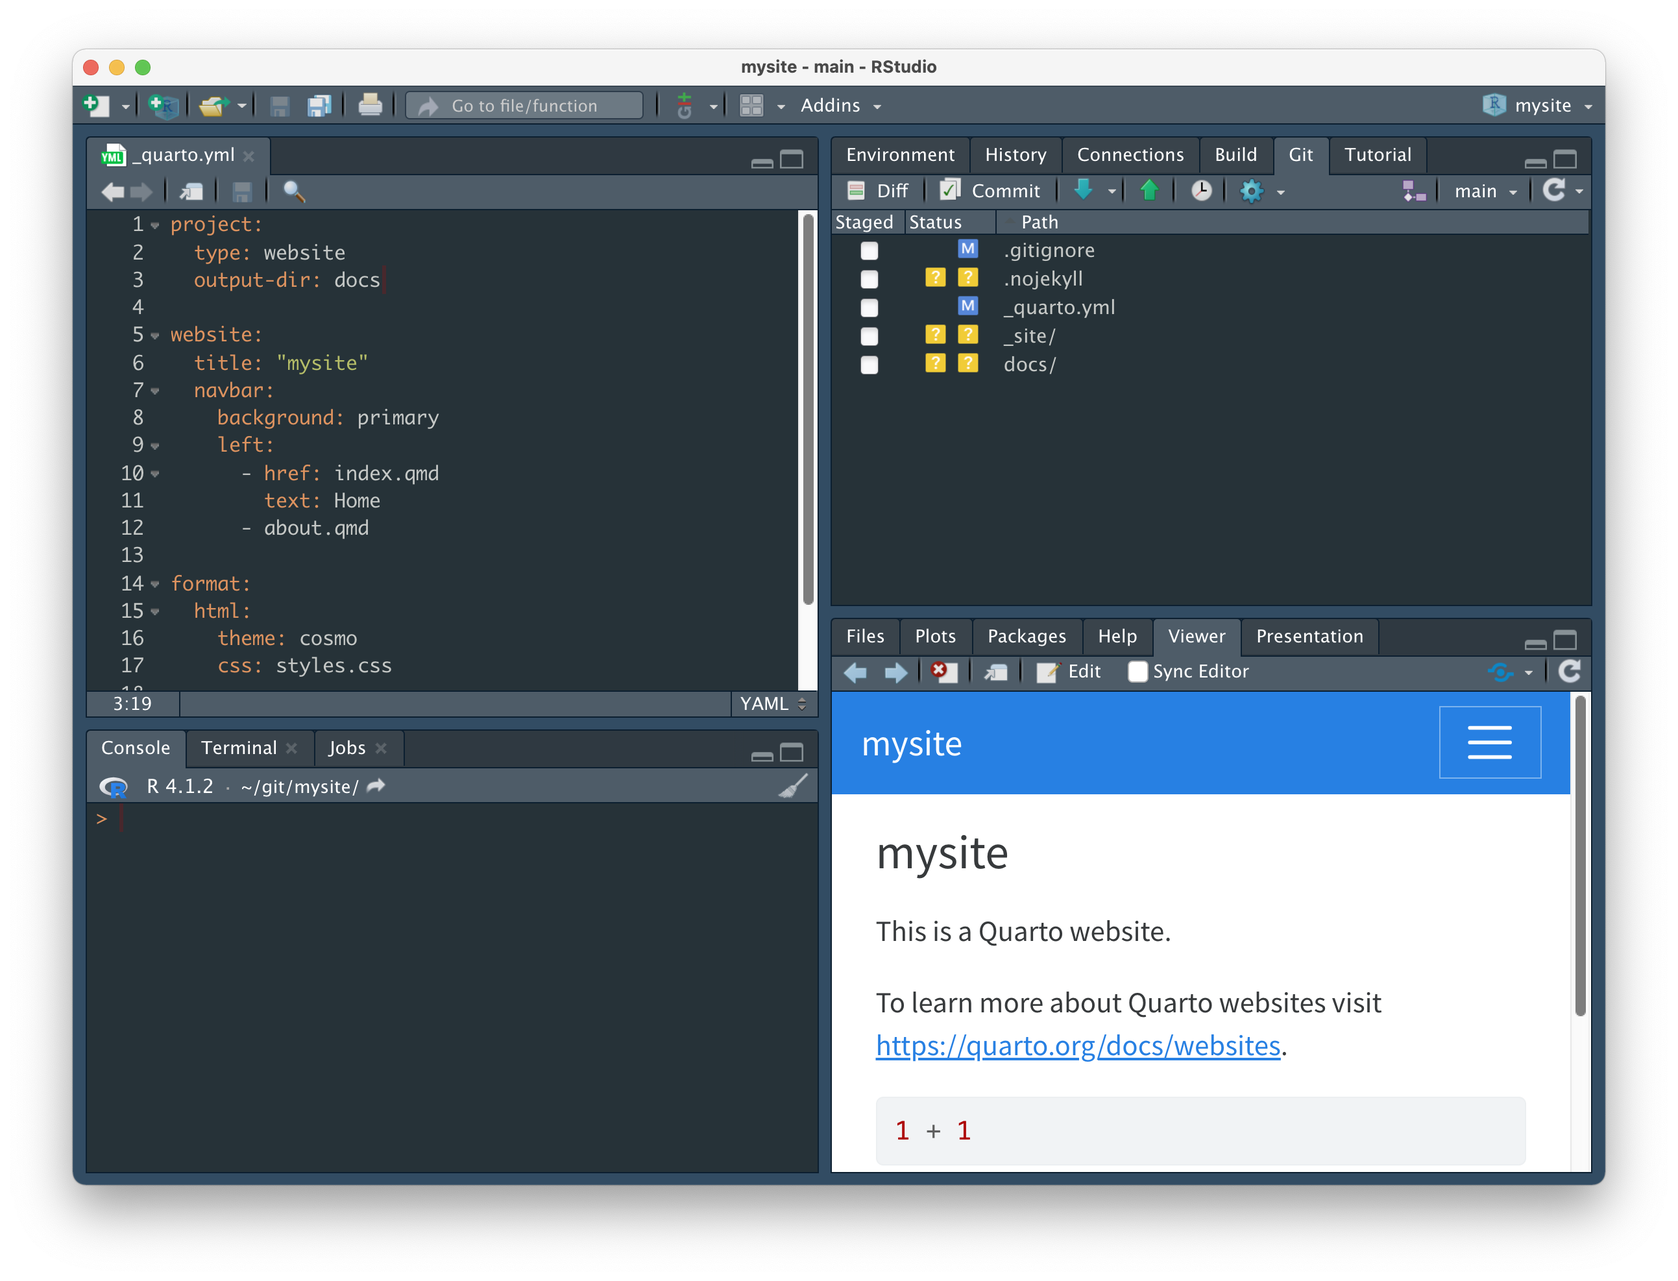
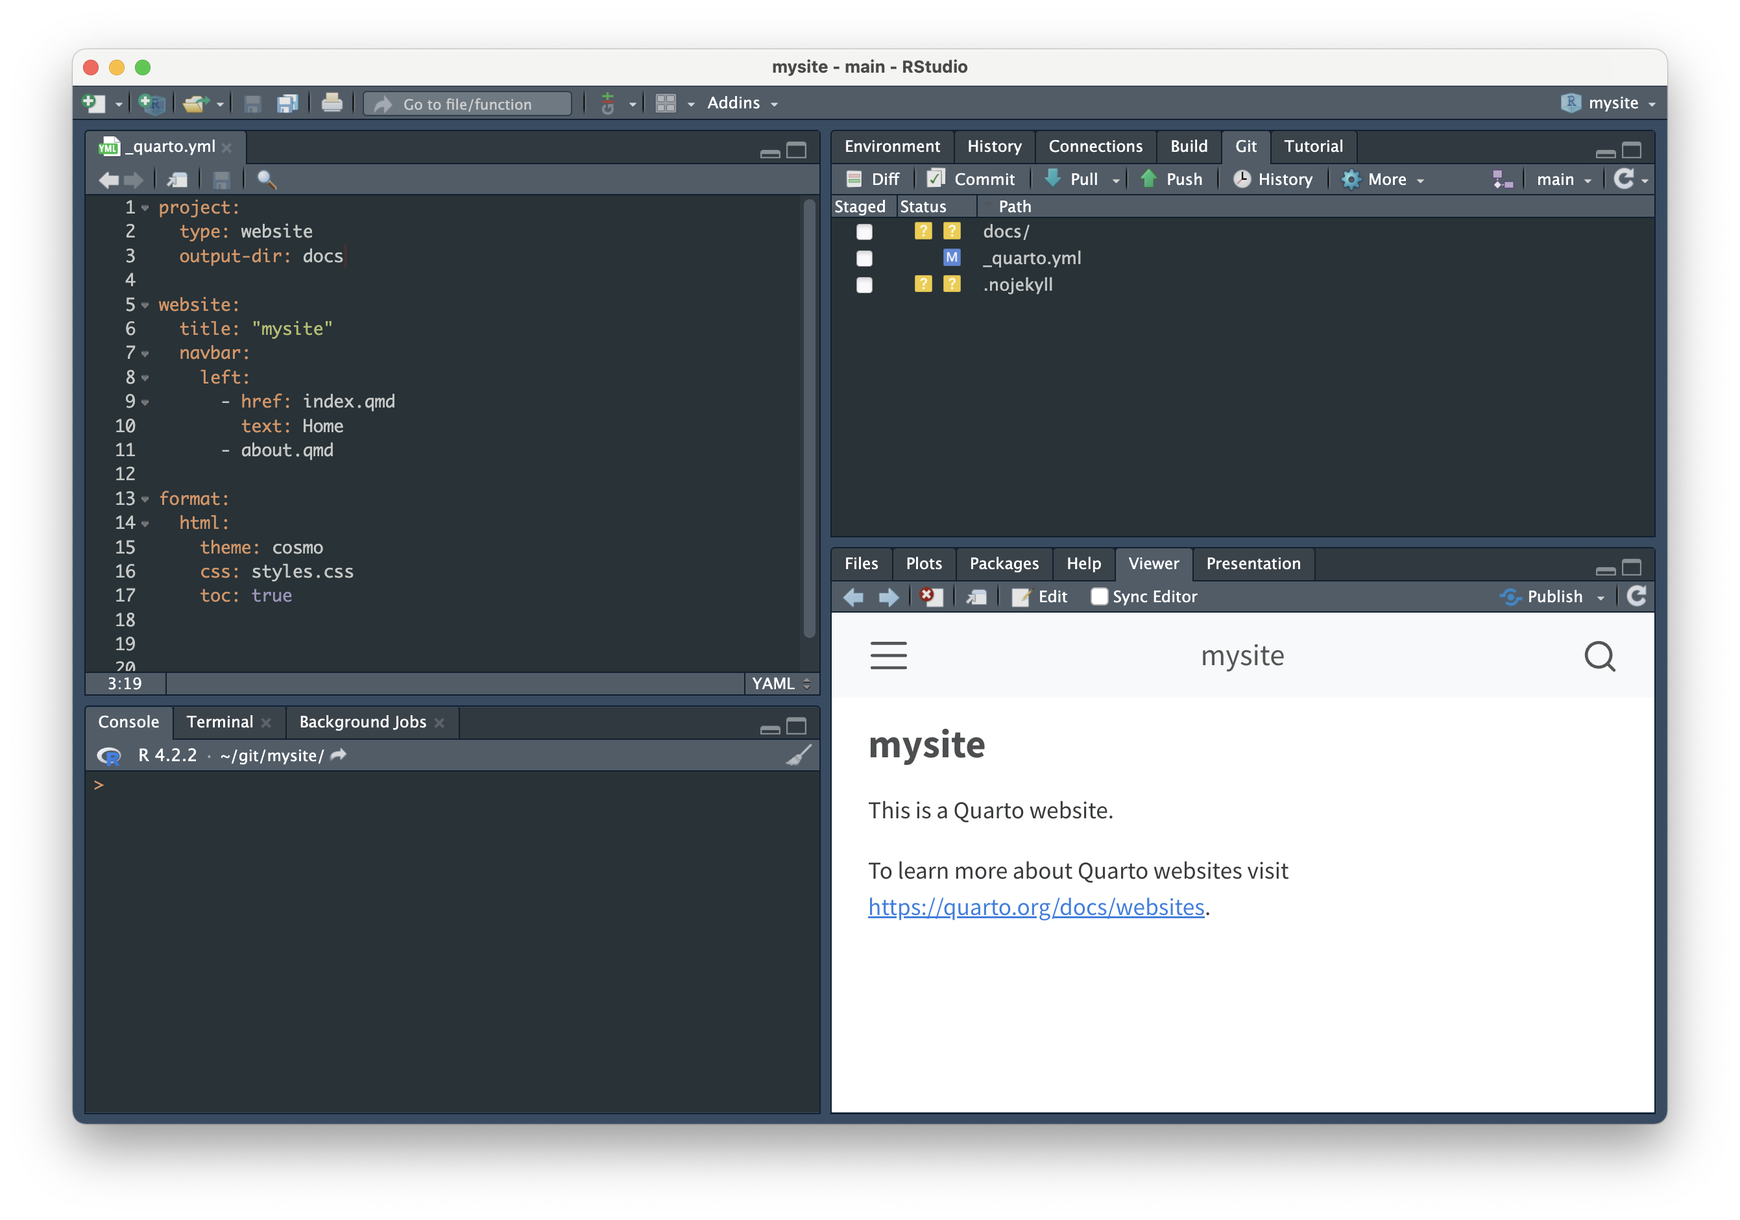
added hint about actions tab

Changed region(s): [[0.0309, 0.0309, 0.959, 0.9255]]

diff --git a/index.html b/index.html
@@ -84,7 +84,7 @@ pre > code.sourceCode > span > a:first-child::before { text-decoration: underlin
   <li><a href="#what-is" id="toc-what-is" class="nav-link active" data-scroll-target="#what-is">What is <img src="media/quarto.png" alt="A blue circle divided into four quadrants, followed by the name 'quarto'." style="display: inline-block; margin: 0; position: relative; top: 0px; width:110px;height:30px;"> ?</a></li>
   <li><a href="#do-i-need-to-use-quarto-to-build-my-website" id="toc-do-i-need-to-use-quarto-to-build-my-website" class="nav-link" data-scroll-target="#do-i-need-to-use-quarto-to-build-my-website"><svg aria-label="Question" role="img" viewbox="0 0 320 512" style="height:1em;width:0.62em;vertical-align:-0.125em;margin-left:auto;margin-right:auto;font-size:inherit;fill:#5A5A5A;overflow:visible;position:relative;"><title>Question</title><path d="M80 160c0-35.3 28.7-64 64-64h32c35.3 0 64 28.7 64 64v3.6c0 21.8-11.1 42.1-29.4 53.8l-42.2 27.1c-25.2 16.2-40.4 44.1-40.4 74V320c0 17.7 14.3 32 32 32s32-14.3 32-32v-1.4c0-8.2 4.2-15.8 11-20.2l42.2-27.1c36.6-23.6 58.8-64.1 58.8-107.7V160c0-70.7-57.3-128-128-128H144C73.3 32 16 89.3 16 160c0 17.7 14.3 32 32 32s32-14.3 32-32zm80 320a40 40 0 1 0 0-80 40 40 0 1 0 0 80z"></path></svg> Do I <em>need</em> to use Quarto to build my website?</a></li>
   <li><a href="#create-the-scaffolding-for-your-website" id="toc-create-the-scaffolding-for-your-website" class="nav-link" data-scroll-target="#create-the-scaffolding-for-your-website"><svg aria-label="Screwdriver Wrench" role="img" viewbox="0 0 512 512" style="height:1em;width:1em;vertical-align:-0.125em;margin-left:auto;margin-right:auto;font-size:inherit;fill:#5A5A5A;overflow:visible;position:relative;"><title>Screwdriver Wrench</title><path d="M78.6 5C69.1-2.4 55.6-1.5 47 7L7 47c-8.5 8.5-9.4 22-2.1 31.6l80 104c4.5 5.9 11.6 9.4 19 9.4h54.1l109 109c-14.7 29-10 65.4 14.3 89.6l112 112c12.5 12.5 32.8 12.5 45.3 0l64-64c12.5-12.5 12.5-32.8 0-45.3l-112-112c-24.2-24.2-60.6-29-89.6-14.3l-109-109V104c0-7.5-3.5-14.5-9.4-19L78.6 5zM19.9 396.1C7.2 408.8 0 426.1 0 444.1C0 481.6 30.4 512 67.9 512c18 0 35.3-7.2 48-19.9L233.7 374.3c-7.8-20.9-9-43.6-3.6-65.1l-61.7-61.7L19.9 396.1zM512 144c0-10.5-1.1-20.7-3.2-30.5c-2.4-11.2-16.1-14.1-24.2-6l-63.9 63.9c-3 3-7.1 4.7-11.3 4.7H352c-8.8 0-16-7.2-16-16V102.6c0-4.2 1.7-8.3 4.7-11.3l63.9-63.9c8.1-8.1 5.2-21.8-6-24.2C388.7 1.1 378.5 0 368 0C288.5 0 224 64.5 224 144l0 .8 85.3 85.3c36-9.1 75.8 .5 104 28.7L429 274.5c49-23 83-72.8 83-130.5zM56 432a24 24 0 1 1 48 0 24 24 0 1 1 -48 0z"></path></svg> Create the scaffolding for your website</a></li>
-  <li><a href="#publish-your-site-with-github-pages" id="toc-publish-your-site-with-github-pages" class="nav-link" data-scroll-target="#publish-your-site-with-github-pages"><svg aria-label="GitHub" role="img" viewbox="0 0 496 512" style="height:1em;width:0.97em;vertical-align:-0.125em;margin-left:auto;margin-right:auto;font-size:inherit;fill:#5A5A5A;overflow:visible;position:relative;"><title>GitHub</title><path d="M165.9 397.4c0 2-2.3 3.6-5.2 3.6-3.3.3-5.6-1.3-5.6-3.6 0-2 2.3-3.6 5.2-3.6 3-.3 5.6 1.3 5.6 3.6zm-31.1-4.5c-.7 2 1.3 4.3 4.3 4.9 2.6 1 5.6 0 6.2-2s-1.3-4.3-4.3-5.2c-2.6-.7-5.5.3-6.2 2.3zm44.2-1.7c-2.9.7-4.9 2.6-4.6 4.9.3 2 2.9 3.3 5.9 2.6 2.9-.7 4.9-2.6 4.6-4.6-.3-1.9-3-3.2-5.9-2.9zM244.8 8C106.1 8 0 113.3 0 252c0 110.9 69.8 205.8 169.5 239.2 12.8 2.3 17.3-5.6 17.3-12.1 0-6.2-.3-40.4-.3-61.4 0 0-70 15-84.7-29.8 0 0-11.4-29.1-27.8-36.6 0 0-22.9-15.7 1.6-15.4 0 0 24.9 2 38.6 25.8 21.9 38.6 58.6 27.5 72.9 20.9 2.3-16 8.8-27.1 16-33.7-55.9-6.2-112.3-14.3-112.3-110.5 0-27.5 7.6-41.3 23.6-58.9-2.6-6.5-11.1-33.3 2.6-67.9 20.9-6.5 69 27 69 27 20-5.6 41.5-8.5 62.8-8.5s42.8 2.9 62.8 8.5c0 0 48.1-33.6 69-27 13.7 34.7 5.2 61.4 2.6 67.9 16 17.7 25.8 31.5 25.8 58.9 0 96.5-58.9 104.2-114.8 110.5 9.2 7.9 17 22.9 17 46.4 0 33.7-.3 75.4-.3 83.6 0 6.5 4.6 14.4 17.3 12.1C428.2 457.8 496 362.9 496 252 496 113.3 383.5 8 244.8 8zM97.2 352.9c-1.3 1-1 3.3.7 5.2 1.6 1.6 3.9 2.3 5.2 1 1.3-1 1-3.3-.7-5.2-1.6-1.6-3.9-2.3-5.2-1zm-10.8-8.1c-.7 1.3.3 2.9 2.3 3.9 1.6 1 3.6.7 4.3-.7.7-1.3-.3-2.9-2.3-3.9-2-.6-3.6-.3-4.3.7zm32.4 35.6c-1.6 1.3-1 4.3 1.3 6.2 2.3 2.3 5.2 2.6 6.5 1 1.3-1.3.7-4.3-1.3-6.2-2.2-2.3-5.2-2.6-6.5-1zm-11.4-14.7c-1.6 1-1.6 3.6 0 5.9 1.6 2.3 4.3 3.3 5.6 2.3 1.6-1.3 1.6-3.9 0-6.2-1.4-2.3-4-3.3-5.6-2z"></path></svg> Publish your site with GitHub Pages</a></li>
+  <li><a href="#build-publish-your-site-with-github-pages" id="toc-build-publish-your-site-with-github-pages" class="nav-link" data-scroll-target="#build-publish-your-site-with-github-pages"><svg aria-label="GitHub" role="img" viewbox="0 0 496 512" style="height:1em;width:0.97em;vertical-align:-0.125em;margin-left:auto;margin-right:auto;font-size:inherit;fill:#5A5A5A;overflow:visible;position:relative;"><title>GitHub</title><path d="M165.9 397.4c0 2-2.3 3.6-5.2 3.6-3.3.3-5.6-1.3-5.6-3.6 0-2 2.3-3.6 5.2-3.6 3-.3 5.6 1.3 5.6 3.6zm-31.1-4.5c-.7 2 1.3 4.3 4.3 4.9 2.6 1 5.6 0 6.2-2s-1.3-4.3-4.3-5.2c-2.6-.7-5.5.3-6.2 2.3zm44.2-1.7c-2.9.7-4.9 2.6-4.6 4.9.3 2 2.9 3.3 5.9 2.6 2.9-.7 4.9-2.6 4.6-4.6-.3-1.9-3-3.2-5.9-2.9zM244.8 8C106.1 8 0 113.3 0 252c0 110.9 69.8 205.8 169.5 239.2 12.8 2.3 17.3-5.6 17.3-12.1 0-6.2-.3-40.4-.3-61.4 0 0-70 15-84.7-29.8 0 0-11.4-29.1-27.8-36.6 0 0-22.9-15.7 1.6-15.4 0 0 24.9 2 38.6 25.8 21.9 38.6 58.6 27.5 72.9 20.9 2.3-16 8.8-27.1 16-33.7-55.9-6.2-112.3-14.3-112.3-110.5 0-27.5 7.6-41.3 23.6-58.9-2.6-6.5-11.1-33.3 2.6-67.9 20.9-6.5 69 27 69 27 20-5.6 41.5-8.5 62.8-8.5s42.8 2.9 62.8 8.5c0 0 48.1-33.6 69-27 13.7 34.7 5.2 61.4 2.6 67.9 16 17.7 25.8 31.5 25.8 58.9 0 96.5-58.9 104.2-114.8 110.5 9.2 7.9 17 22.9 17 46.4 0 33.7-.3 75.4-.3 83.6 0 6.5 4.6 14.4 17.3 12.1C428.2 457.8 496 362.9 496 252 496 113.3 383.5 8 244.8 8zM97.2 352.9c-1.3 1-1 3.3.7 5.2 1.6 1.6 3.9 2.3 5.2 1 1.3-1 1-3.3-.7-5.2-1.6-1.6-3.9-2.3-5.2-1zm-10.8-8.1c-.7 1.3.3 2.9 2.3 3.9 1.6 1 3.6.7 4.3-.7.7-1.3-.3-2.9-2.3-3.9-2-.6-3.6-.3-4.3.7zm32.4 35.6c-1.6 1.3-1 4.3 1.3 6.2 2.3 2.3 5.2 2.6 6.5 1 1.3-1.3.7-4.3-1.3-6.2-2.2-2.3-5.2-2.6-6.5-1zm-11.4-14.7c-1.6 1-1.6 3.6 0 5.9 1.6 2.3 4.3 3.3 5.6 2.3 1.6-1.3 1.6-3.9 0-6.2-1.4-2.3-4-3.3-5.6-2z"></path></svg> Build &amp; publish your site with GitHub Pages</a></li>
   <li><a href="#where-you-should-start-changing-stuff" id="toc-where-you-should-start-changing-stuff" class="nav-link" data-scroll-target="#where-you-should-start-changing-stuff"><svg aria-label="Pen To Square" role="img" viewbox="0 0 512 512" style="height:1em;width:1em;vertical-align:-0.125em;margin-left:auto;margin-right:auto;font-size:inherit;fill:#5A5A5A;overflow:visible;position:relative;"><title>Pen To Square</title><path d="M441 58.9L453.1 71c9.4 9.4 9.4 24.6 0 33.9L424 134.1 377.9 88 407 58.9c9.4-9.4 24.6-9.4 33.9 0zM209.8 256.2L344 121.9 390.1 168 255.8 302.2c-2.9 2.9-6.5 5-10.4 6.1l-58.5 16.7 16.7-58.5c1.1-3.9 3.2-7.5 6.1-10.4zM373.1 25L175.8 222.2c-8.7 8.7-15 19.4-18.3 31.1l-28.6 100c-2.4 8.4-.1 17.4 6.1 23.6s15.2 8.5 23.6 6.1l100-28.6c11.8-3.4 22.5-9.7 31.1-18.3L487 138.9c28.1-28.1 28.1-73.7 0-101.8L474.9 25C446.8-3.1 401.2-3.1 373.1 25zM88 64C39.4 64 0 103.4 0 152V424c0 48.6 39.4 88 88 88H360c48.6 0 88-39.4 88-88V312c0-13.3-10.7-24-24-24s-24 10.7-24 24V424c0 22.1-17.9 40-40 40H88c-22.1 0-40-17.9-40-40V152c0-22.1 17.9-40 40-40H200c13.3 0 24-10.7 24-24s-10.7-24-24-24H88z"></path></svg> Where you should start changing stuff</a></li>
   <li><a href="#looking-forward" id="toc-looking-forward" class="nav-link" data-scroll-target="#looking-forward"><svg aria-label="Forward" role="img" viewbox="0 0 512 512" style="height:1em;width:1em;vertical-align:-0.125em;margin-left:auto;margin-right:auto;font-size:inherit;fill:#5A5A5A;overflow:visible;position:relative;"><title>Forward</title><path d="M52.5 440.6c-9.5 7.9-22.8 9.7-34.1 4.4S0 428.4 0 416V96C0 83.6 7.2 72.3 18.4 67s24.5-3.6 34.1 4.4L224 214.3V256v41.7L52.5 440.6zM256 352V256 128 96c0-12.4 7.2-23.7 18.4-29s24.5-3.6 34.1 4.4l192 160c7.3 6.1 11.5 15.1 11.5 24.6s-4.2 18.5-11.5 24.6l-192 160c-9.5 7.9-22.8 9.7-34.1 4.4s-18.4-16.6-18.4-29V352z"></path></svg> Looking forward</a></li>
   <li><a href="#additional-resources-to-get-you-stoked-about-quarto" id="toc-additional-resources-to-get-you-stoked-about-quarto" class="nav-link" data-scroll-target="#additional-resources-to-get-you-stoked-about-quarto"><svg aria-label="Star" role="img" viewbox="0 0 576 512" style="height:1em;width:1.12em;vertical-align:-0.125em;margin-left:auto;margin-right:auto;font-size:inherit;fill:#5A5A5A;overflow:visible;position:relative;"><title>Star</title><path d="M287.9 0c9.2 0 17.6 5.2 21.6 13.5l68.6 141.3 153.2 22.6c9 1.3 16.5 7.6 19.3 16.3s.5 18.1-5.9 24.5L433.6 328.4l26.2 155.6c1.5 9-2.2 18.1-9.6 23.5s-17.3 6-25.3 1.7l-137-73.2L151 509.1c-8.1 4.3-17.9 3.7-25.3-1.7s-11.2-14.5-9.7-23.5l26.2-155.6L31.1 218.2c-6.5-6.4-8.7-15.9-5.9-24.5s10.3-14.9 19.3-16.3l153.2-22.6L266.3 13.5C270.4 5.2 278.7 0 287.9 0zm0 79L235.4 187.2c-3.5 7.1-10.2 12.1-18.1 13.3L99 217.9 184.9 303c5.5 5.5 8.1 13.3 6.8 21L171.4 443.7l105.2-56.2c7.1-3.8 15.6-3.8 22.6 0l105.2 56.2L384.2 324.1c-1.3-7.7 1.2-15.5 6.8-21l85.9-85.1L358.6 200.5c-7.8-1.2-14.6-6.1-18.1-13.3L287.9 79z"></path></svg> Additional resources to get you stoked about Quarto</a></li>
@@ -656,8 +656,8 @@ Create a Quarto website inside an existing GitHub repository
 </div>
 </div>
 </section>
-<section id="publish-your-site-with-github-pages" class="level2 page-columns page-full">
-<h2 class="anchored" data-anchor-id="publish-your-site-with-github-pages"><svg aria-label="GitHub" role="img" viewbox="0 0 496 512" style="height:1em;width:0.97em;vertical-align:-0.125em;margin-left:auto;margin-right:auto;font-size:inherit;fill:#5A5A5A;overflow:visible;position:relative;"><title>GitHub</title><path d="M165.9 397.4c0 2-2.3 3.6-5.2 3.6-3.3.3-5.6-1.3-5.6-3.6 0-2 2.3-3.6 5.2-3.6 3-.3 5.6 1.3 5.6 3.6zm-31.1-4.5c-.7 2 1.3 4.3 4.3 4.9 2.6 1 5.6 0 6.2-2s-1.3-4.3-4.3-5.2c-2.6-.7-5.5.3-6.2 2.3zm44.2-1.7c-2.9.7-4.9 2.6-4.6 4.9.3 2 2.9 3.3 5.9 2.6 2.9-.7 4.9-2.6 4.6-4.6-.3-1.9-3-3.2-5.9-2.9zM244.8 8C106.1 8 0 113.3 0 252c0 110.9 69.8 205.8 169.5 239.2 12.8 2.3 17.3-5.6 17.3-12.1 0-6.2-.3-40.4-.3-61.4 0 0-70 15-84.7-29.8 0 0-11.4-29.1-27.8-36.6 0 0-22.9-15.7 1.6-15.4 0 0 24.9 2 38.6 25.8 21.9 38.6 58.6 27.5 72.9 20.9 2.3-16 8.8-27.1 16-33.7-55.9-6.2-112.3-14.3-112.3-110.5 0-27.5 7.6-41.3 23.6-58.9-2.6-6.5-11.1-33.3 2.6-67.9 20.9-6.5 69 27 69 27 20-5.6 41.5-8.5 62.8-8.5s42.8 2.9 62.8 8.5c0 0 48.1-33.6 69-27 13.7 34.7 5.2 61.4 2.6 67.9 16 17.7 25.8 31.5 25.8 58.9 0 96.5-58.9 104.2-114.8 110.5 9.2 7.9 17 22.9 17 46.4 0 33.7-.3 75.4-.3 83.6 0 6.5 4.6 14.4 17.3 12.1C428.2 457.8 496 362.9 496 252 496 113.3 383.5 8 244.8 8zM97.2 352.9c-1.3 1-1 3.3.7 5.2 1.6 1.6 3.9 2.3 5.2 1 1.3-1 1-3.3-.7-5.2-1.6-1.6-3.9-2.3-5.2-1zm-10.8-8.1c-.7 1.3.3 2.9 2.3 3.9 1.6 1 3.6.7 4.3-.7.7-1.3-.3-2.9-2.3-3.9-2-.6-3.6-.3-4.3.7zm32.4 35.6c-1.6 1.3-1 4.3 1.3 6.2 2.3 2.3 5.2 2.6 6.5 1 1.3-1.3.7-4.3-1.3-6.2-2.2-2.3-5.2-2.6-6.5-1zm-11.4-14.7c-1.6 1-1.6 3.6 0 5.9 1.6 2.3 4.3 3.3 5.6 2.3 1.6-1.3 1.6-3.9 0-6.2-1.4-2.3-4-3.3-5.6-2z"></path></svg> Publish your site with GitHub Pages</h2>
+<section id="build-publish-your-site-with-github-pages" class="level2 page-columns page-full">
+<h2 class="anchored" data-anchor-id="build-publish-your-site-with-github-pages"><svg aria-label="GitHub" role="img" viewbox="0 0 496 512" style="height:1em;width:0.97em;vertical-align:-0.125em;margin-left:auto;margin-right:auto;font-size:inherit;fill:#5A5A5A;overflow:visible;position:relative;"><title>GitHub</title><path d="M165.9 397.4c0 2-2.3 3.6-5.2 3.6-3.3.3-5.6-1.3-5.6-3.6 0-2 2.3-3.6 5.2-3.6 3-.3 5.6 1.3 5.6 3.6zm-31.1-4.5c-.7 2 1.3 4.3 4.3 4.9 2.6 1 5.6 0 6.2-2s-1.3-4.3-4.3-5.2c-2.6-.7-5.5.3-6.2 2.3zm44.2-1.7c-2.9.7-4.9 2.6-4.6 4.9.3 2 2.9 3.3 5.9 2.6 2.9-.7 4.9-2.6 4.6-4.6-.3-1.9-3-3.2-5.9-2.9zM244.8 8C106.1 8 0 113.3 0 252c0 110.9 69.8 205.8 169.5 239.2 12.8 2.3 17.3-5.6 17.3-12.1 0-6.2-.3-40.4-.3-61.4 0 0-70 15-84.7-29.8 0 0-11.4-29.1-27.8-36.6 0 0-22.9-15.7 1.6-15.4 0 0 24.9 2 38.6 25.8 21.9 38.6 58.6 27.5 72.9 20.9 2.3-16 8.8-27.1 16-33.7-55.9-6.2-112.3-14.3-112.3-110.5 0-27.5 7.6-41.3 23.6-58.9-2.6-6.5-11.1-33.3 2.6-67.9 20.9-6.5 69 27 69 27 20-5.6 41.5-8.5 62.8-8.5s42.8 2.9 62.8 8.5c0 0 48.1-33.6 69-27 13.7 34.7 5.2 61.4 2.6 67.9 16 17.7 25.8 31.5 25.8 58.9 0 96.5-58.9 104.2-114.8 110.5 9.2 7.9 17 22.9 17 46.4 0 33.7-.3 75.4-.3 83.6 0 6.5 4.6 14.4 17.3 12.1C428.2 457.8 496 362.9 496 252 496 113.3 383.5 8 244.8 8zM97.2 352.9c-1.3 1-1 3.3.7 5.2 1.6 1.6 3.9 2.3 5.2 1 1.3-1 1-3.3-.7-5.2-1.6-1.6-3.9-2.3-5.2-1zm-10.8-8.1c-.7 1.3.3 2.9 2.3 3.9 1.6 1 3.6.7 4.3-.7.7-1.3-.3-2.9-2.3-3.9-2-.6-3.6-.3-4.3.7zm32.4 35.6c-1.6 1.3-1 4.3 1.3 6.2 2.3 2.3 5.2 2.6 6.5 1 1.3-1.3.7-4.3-1.3-6.2-2.2-2.3-5.2-2.6-6.5-1zm-11.4-14.7c-1.6 1-1.6 3.6 0 5.9 1.6 2.3 4.3 3.3 5.6 2.3 1.6-1.3 1.6-3.9 0-6.2-1.4-2.3-4-3.3-5.6-2z"></path></svg> Build &amp; publish your site with GitHub Pages</h2>
 <p>There are a <a href="https://quarto.org/docs/websites/publishing-websites.html">lots of options to publish your website</a>. We’ll use the <a href="https://quarto.org/docs/websites/publishing-websites.html#github-pages">GitHub Pages option</a>, which allows you to publish a website from any GitHub repository. To do so, there are a few configuration steps:</p>
 <ol type="1">
 <li>Create a file named <code>.nojekyll</code> in your repository, which is required to disable some processing of HTML files that GitHub does by default. Do this from your <strong>terminal</strong> (you can use the terminal tab in RStudio or a separate terminal window – just make sure you’re in the correct directory) using the following command:</li>
@@ -707,7 +707,7 @@ Note
 <div class="cell-output-display">
 <div class="quarto-figure quarto-figure-center">
 <figure class="figure">
-<p><img src="media/build_site.png" class="img-fluid figure-img" width="1293"></p>
+<p><img src="media/build_site.png" class="img-fluid figure-img" width="1341"></p>
 </figure>
 </div>
 </div>
@@ -719,14 +719,14 @@ Note
 <li><strong>Commit</strong> your files by clicking the Commit button, adding a commit message, and clicking “Commit” (<em>analogous to <code>git commit -m "my commit message"</code></em>)</li>
 <li><strong>Push</strong> your files to the remote repository (on GitHub) by clicking the “Push” button with the green upward facing arrow (<em>analogous to <code>git push</code></em>).</li>
 </ol></li>
-<li><p>Configure GitHub pages to serve content from the “docs” directory by clicking on the <strong>Settings</strong> tab in the top menu bar, then <strong>Pages</strong> tab from the left hand menu bar. Make sure that Branch is set to <code>main</code> and that the selected folder is set to <code>/docs</code>. Click “Save”. Your website’s URL will appear inside a blue banner at the top of the page. Give it a few minutes to render (you’ll get a 404 error message if it’s not ready yet), then explore your site!</p></li>
+<li><p>Configure GitHub pages to serve content from the “docs” directory by clicking on the <strong>Settings</strong> tab in the top menu bar, then <strong>Pages</strong> tab from the left hand menu bar. Make sure that Branch is set to <code>main</code> and that the selected folder is set to <code>/docs</code>. Click “Save”. Once deployed (this may take a few minutes), your website’s URL will appear inside a box at the top of the page (you may have to try refreshing a few times).</p></li>
 </ol>
 <div class="cell column-page quarto-layout-panel">
 <div class="quarto-layout-row quarto-layout-valign-top">
 <div class="cell-output-display quarto-layout-cell" style="flex-basis: 50.0%;justify-content: center;">
 <div class="quarto-figure quarto-figure-center">
 <figure class="figure">
-<p><img src="media/gh_pages.png" class="img-fluid figure-img" width="654"></p>
+<p><img src="media/gh_pages.png" class="img-fluid figure-img" width="1552"></p>
 <p></p><figcaption class="figure-caption">Your website’s URL will appear at the top of the page once you’ve configured GitHub pages to host your Quarto site</figcaption><p></p>
 </figure>
 </div>
@@ -734,11 +734,29 @@ Note
 <div class="cell-output-display quarto-layout-cell" style="flex-basis: 50.0%;justify-content: center;">
 <div class="quarto-figure quarto-figure-center">
 <figure class="figure">
-<p><img src="media/rendered_site.png" class="img-fluid figure-img" width="654"></p>
+<p><img src="media/rendered_site.png" class="img-fluid figure-img" width="1552"></p>
 <p></p><figcaption class="figure-caption">A hosted Quarto website! Now time to customize and add content.</figcaption><p></p>
 </figure>
 </div>
 </div>
+</div>
+</div>
+<div class="callout callout-style-default callout-tip callout-titled">
+<div class="callout-header d-flex align-content-center">
+<div class="callout-icon-container">
+<i class="callout-icon"></i>
+</div>
+<div class="callout-title-container flex-fill">
+Check out the <strong>Actions</strong> tab on GitHub to view deployment status
+</div>
+</div>
+<div class="callout-body-container callout-body">
+<div class="cell">
+<div class="cell-output-display">
+<p><img src="media/actions_tab.png" class="img-fluid" width="1552"></p>
+</div>
+</div>
+<p>You can also find failed deployments here (yes, it does happen on occasion) and take action on fixing them.</p>
 </div>
 </div>
 </section>
@@ -780,19 +798,19 @@ Note
 <dl class="code-annotation-container-grid">
 <dt data-target-cell="annotated-cell-3" data-target-annotation="1">1</dt>
 <dd>
-<span data-code-lines="2" data-code-cell="annotated-cell-3" data-code-annotation="1">add a photo by supplying a file path &amp; image name (here, <code>headshot.jpg</code> lives in my repo’s root directory)</span>
+<span data-code-cell="annotated-cell-3" data-code-annotation="1" data-code-lines="2">add a photo by supplying a file path &amp; image name (here, <code>headshot.jpg</code> lives in my repo’s root directory)</span>
 </dd>
 <dt data-target-cell="annotated-cell-3" data-target-annotation="2">2</dt>
 <dd>
-<span data-code-lines="4" data-code-cell="annotated-cell-3" data-code-annotation="2">use a <a href="https://quarto.org/docs/websites/website-about.html#templates">pre-built template</a> (here, <code>trestles</code>) to update the layout of your landing page (or any page!)</span>
+<span data-code-cell="annotated-cell-3" data-code-annotation="2" data-code-lines="4">use a <a href="https://quarto.org/docs/websites/website-about.html#templates">pre-built template</a> (here, <code>trestles</code>) to update the layout of your landing page (or any page!)</span>
 </dd>
 <dt data-target-cell="annotated-cell-3" data-target-annotation="3">3</dt>
 <dd>
-<span data-code-lines="5,6" data-code-cell="annotated-cell-3" data-code-annotation="3">set image shape (<code>round</code>, <code>rounded</code>, <code>rectangle</code>) &amp; size</span>
+<span data-code-cell="annotated-cell-3" data-code-annotation="3" data-code-lines="5,6">set image shape (<code>round</code>, <code>rounded</code>, <code>rectangle</code>) &amp; size</span>
 </dd>
 <dt data-target-cell="annotated-cell-3" data-target-annotation="4">4</dt>
 <dd>
-<span data-code-lines="7,8,9,10,11,12,13,14,15" data-code-cell="annotated-cell-3" data-code-annotation="4">add button links to your favorite social media pages (e.g.&nbsp;LinkedIn, Twitter, GitHub, and even your email – NOTE: the <code>mailto::</code> ahead of your email address, <code>mailto::youremail.com</code>)</span>
+<span data-code-cell="annotated-cell-3" data-code-annotation="4" data-code-lines="7,8,9,10,11,12,13,14,15">add button links to your favorite social media pages (e.g.&nbsp;LinkedIn, Twitter, GitHub, and even your email – NOTE: the <code>mailto::</code> ahead of your email address, <code>mailto::youremail.com</code>)</span>
 </dd>
 </dl>
 </div>
@@ -840,7 +858,7 @@ Note
 <dl class="code-annotation-container-grid">
 <dt data-target-cell="annotated-cell-4" data-target-annotation="1">1</dt>
 <dd>
-<span data-code-lines="13" data-code-cell="annotated-cell-4" data-code-annotation="1">A newly-added navbar page. <strong>Note</strong> the page name, as it appears in the navbar of your website, will be the same as whatever is listed in the <code>title</code> field in your file’s yaml. For example, the in the yaml of <code>resources.qmd</code>, I have set <code>title: "All my favorite resources!"</code>. You can change how the page name appears in your navbar by setting <code>href</code> to your <code>qmd</code> file name and <code>text</code> to however you want your text to appear (e.g.&nbsp;see how <code>index.qmd</code> is rendered as <code>Home</code> in my website’s navbar).</span>
+<span data-code-cell="annotated-cell-4" data-code-annotation="1" data-code-lines="13">A newly-added navbar page. <strong>Note</strong> the page name, as it appears in the navbar of your website, will be the same as whatever is listed in the <code>title</code> field in your file’s yaml. For example, the in the yaml of <code>resources.qmd</code>, I have set <code>title: "All my favorite resources!"</code>. You can change how the page name appears in your navbar by setting <code>href</code> to your <code>qmd</code> file name and <code>text</code> to however you want your text to appear (e.g.&nbsp;see how <code>index.qmd</code> is rendered as <code>Home</code> in my website’s navbar).</span>
 </dd>
 </dl>
 </div>
